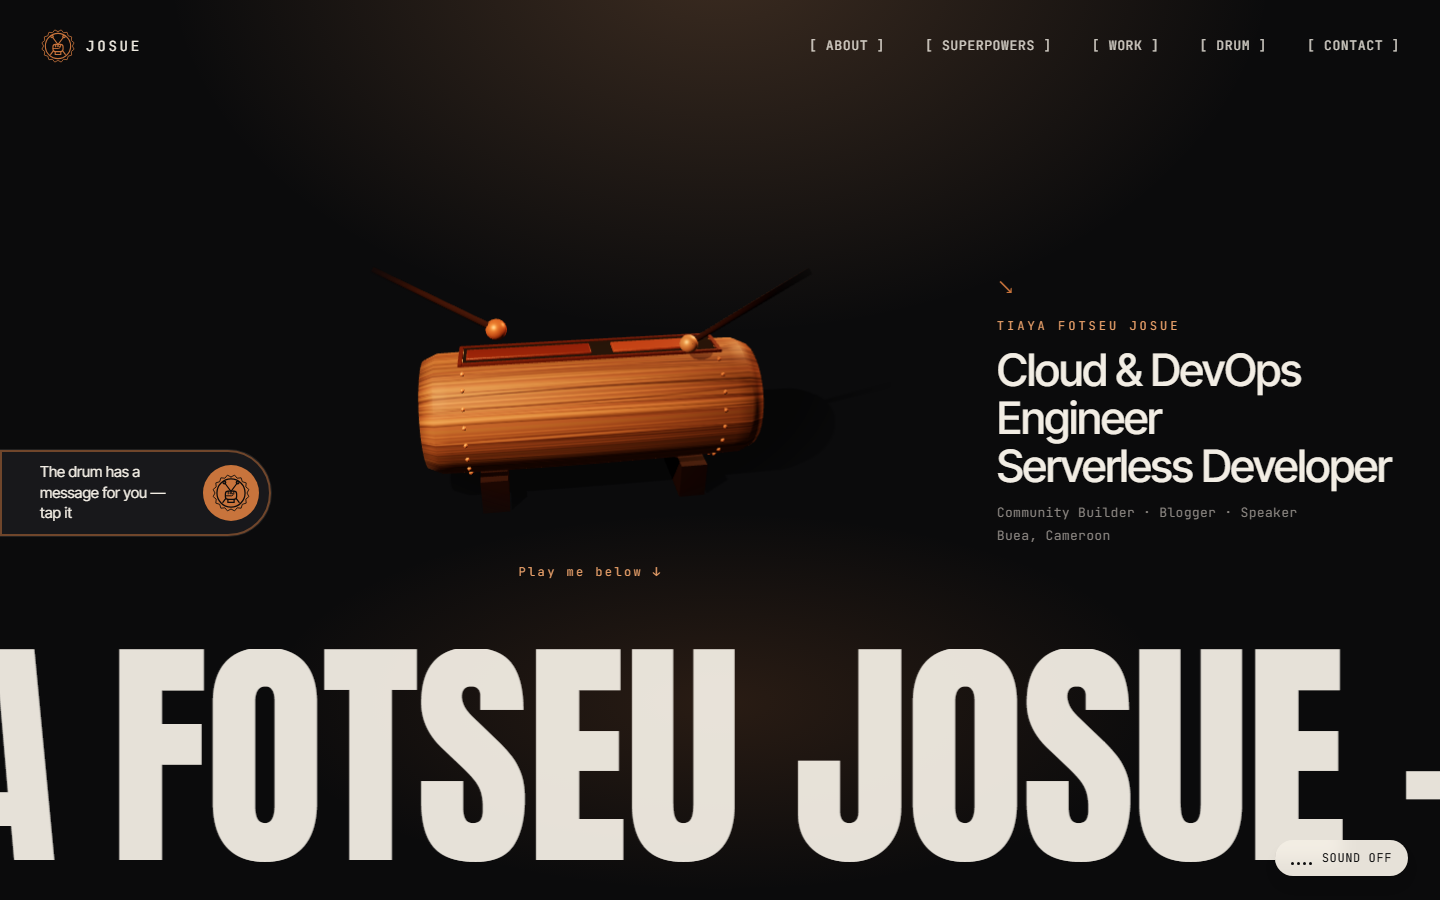
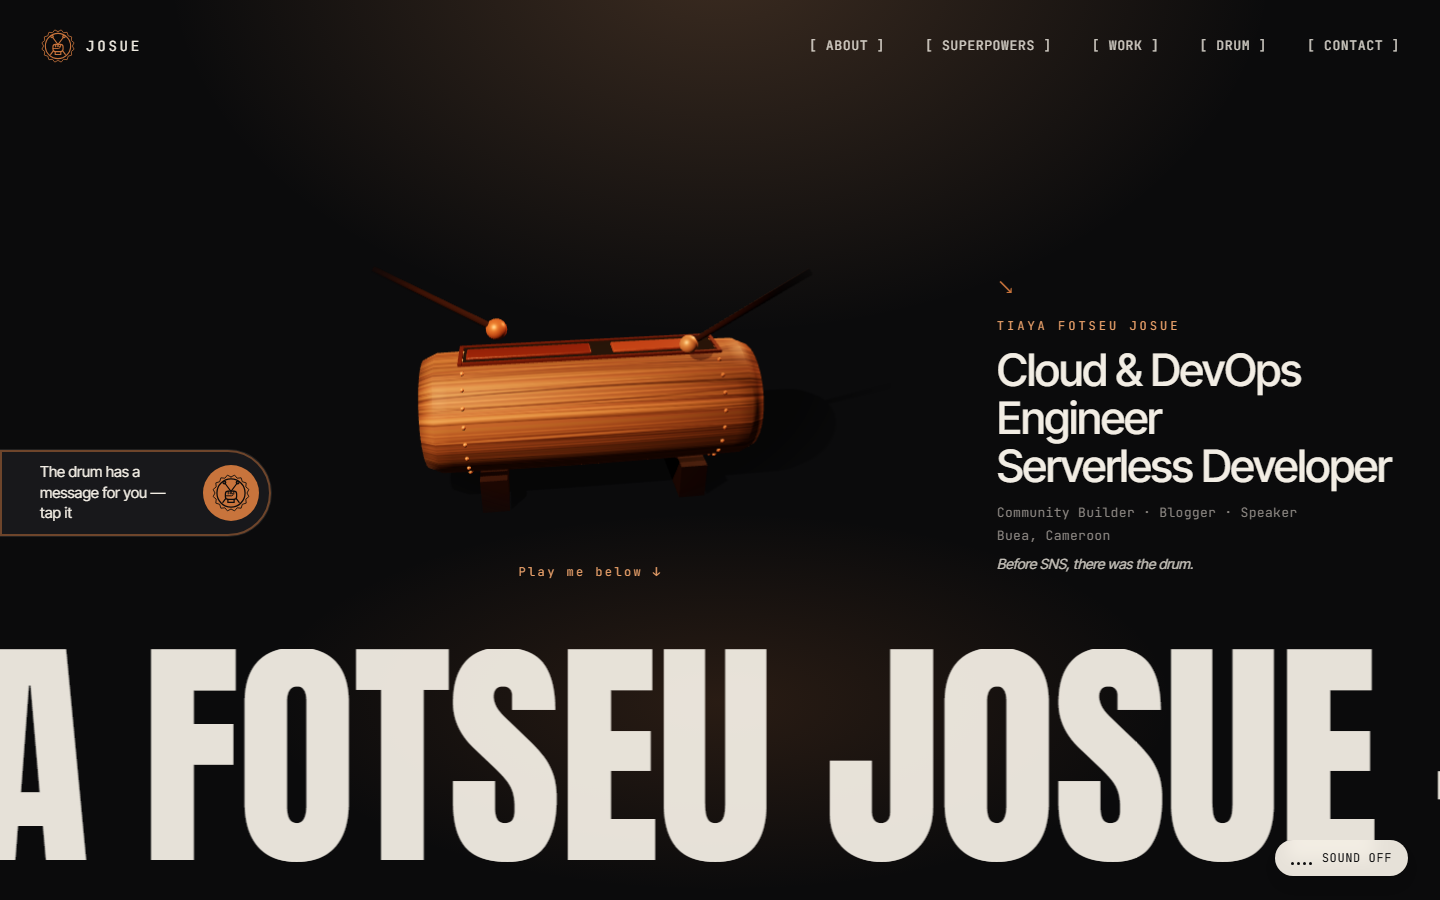
docs(submission): review + dry-run edits, fresh hero shots

Changed region(s): [[0.0, 0.7156, 1.0, 0.9644], [0.6875, 0.6222, 0.8438, 0.6533], [0.3125, 0.3733, 0.3438, 0.4044]]

diff --git a/web/e2e/capture.spec.ts b/web/e2e/capture.spec.ts
@@ -88,3 +88,17 @@ test('demo video + delivered screenshot', async ({ browser }) => {
   copyFileSync(await video.path(), VIDEO);
   expect(posts).toBeLessThanOrEqual(2);
 });
+
+// Re-shoot only the two hero frames (no phrase, no POST): -g "hero shots".
+test('hero shots', async ({ browser }) => {
+  for (const [name, opts] of [
+    ['01-hero-desktop', { viewport: { width: 1440, height: 900 } }],
+    ['10-mobile-hero', { viewport: { width: 390, height: 844 }, deviceScaleFactor: 2, isMobile: true, hasTouch: true }],
+  ] as const) {
+    const ctx = await browser.newContext(opts);
+    await noPosts(ctx);
+    const page = await ctx.newPage();
+    await page.goto('/'); await settle(page, 3500); await shot(page, name);
+    await ctx.close();
+  }
+});

diff --git a/docs/submission/project-post.md b/docs/submission/project-post.md
@@ -4,6 +4,12 @@
 **Try the creative feature:** https://main.d2edrxdeaouf1j.amplifyapp.com/#drum   ·   **Stage Mode:** https://main.d2edrxdeaouf1j.amplifyapp.com/?mode=stage
 **How it's built (on the site):** https://main.d2edrxdeaouf1j.amplifyapp.com/how-it-works/
 
+> **TL;DR.** A two-tone slit drum sits in the middle of my portfolio.
+>
+> Play four beats and a real AWS pipeline (Amazon API Gateway → AWS Lambda → Amazon DynamoDB + Amazon SNS → Amazon SQS and email) delivers the rhythm, and the drum answers with a message about me.
+>
+> Try it: https://main.d2edrxdeaouf1j.amplifyapp.com/#drum
+
 I'm Tiaya Fotseu Josue, a Cloud & DevOps Engineer and Serverless Developer from Buea, Cameroon. I'm a 4th-year B.Eng Computer Engineering student at the University of Buea. I have played the drums since Lower Sixth. This portfolio turns that drum into a real AWS messaging system.
 
 ![Demo: the hint, four drum hits, the message card with "Delivered via Amazon SNS", then Stage Mode](https://raw.githubusercontent.com/Joshua4-0p/joshua.cloud-portfolio-website/main/docs/submission/demo.gif)
@@ -17,7 +23,7 @@ I'm Tiaya Fotseu Josue, a Cloud & DevOps Engineer and Serverless Developer from 
 | **D2** Three core sections: About Me, Skills / Tech Superpowers, Projects or Achievements | Nav links and anchors: [About](https://main.d2edrxdeaouf1j.amplifyapp.com/#about), [Superpowers](https://main.d2edrxdeaouf1j.amplifyapp.com/#superpowers), [Work](https://main.d2edrxdeaouf1j.amplifyapp.com/#work), plus Recognition and Community. Screenshots 02–06. All sections are static HTML and readable without JavaScript. |
 | **D3** One creative feature that does not get in the way of navigation | **The Talking Drum** ([/#drum](https://main.d2edrxdeaouf1j.amplifyapp.com/#drum)). Visible hint in the hero: "The drum has a message for you — tap it". Opt-in, no splash screen, no forced sound, nav always works, Stage Mode exits with one button or Escape. Works with mouse, touch and keyboard. Screenshots 07–09, 11 and the demo GIF. |
 | **D4** Link to the GitHub repository | https://github.com/Joshua4-0p/joshua.cloud-portfolio-website (public), linked in the site footer and on /how-it-works/. |
-| **D5** Screenshots of the portfolio and the AWS setup, AWS services documented, learnings and challenges | 12 portfolio screenshots, the architecture diagram, a demo GIF, and AWS console screenshots (Amplify, API Gateway, Lambda, DynamoDB, SNS, SQS, CloudWatch Synthetics, Budgets) below, each with a caption. Services table with purpose and monthly cost under "Working AWS implementation". "What I learned" and "Challenges I hit" below. |
+| **D5** Screenshots of the portfolio and the AWS setup, AWS services documented, learnings and challenges | 12 portfolio screenshots, the architecture diagram, a demo GIF, and AWS console screenshots (see "AWS console screenshots" below), each with a caption. Services table with purpose and monthly cost under "Working AWS implementation". "What I learned" and "Challenges I hit" below. |
 | **D6** Original, unpublished website | New repo created on 6 Nov 2026 at 06:24 UTC. New Amplify app, first deployed on 6 Nov 2026. See the originality statement under "Communication quality". |
 
 ## Creativity and memorability
@@ -26,7 +32,7 @@ I'm Tiaya Fotseu Josue, a Cloud & DevOps Engineer and Serverless Developer from 
 
 You play four beats: low ● and high ○. The drum answers with one of eight short messages about me. They are true things from my life: I drew cartoons and manga before I wrote code. My first code was C in Level 200. I grew up bilingual. There are eight to find.
 
-**Why it reflects me.** I am a drummer. I build serverless and messaging systems on AWS. A talking drum was a publish/subscribe system long before the cloud: one drummer sends a rhythm, and every village in earshot receives it. So the punchline on the first card is: *Before SNS, there was the drum. Drummer = publisher, rhythm = message, villages = subscribers.*
+**Why it reflects me.** I am a drummer. I started in Lower Sixth, and guitar came later, in Level 300 at the University of Buea. The first message the drum gives you is mine: "I started drumming in Lower Sixth. Years later I'm still sending messages, now they travel through the cloud." I build serverless and messaging systems on AWS. A talking drum was a publish/subscribe system long before the cloud: one drummer sends a rhythm, and every village in earshot receives it. So the punchline on the first card is: *Before SNS, there was the drum. Drummer = publisher, rhythm = message, villages = subscribers.*
 
 **And the drum really publishes.** Every completed four-beat phrase is sent to a real AWS backend:
 
@@ -52,7 +58,7 @@ The 3D drum shows this fan-out: a pulse travels to the archive, and the inbox li
 - If the API is down or blocked, the drum still answers instantly. Only the "Delivered" line is missing.
 
 ![Hero on desktop with the drum hint above the fold](https://raw.githubusercontent.com/Joshua4-0p/joshua.cloud-portfolio-website/main/docs/submission/screenshots/01-hero-desktop.png)
-*01 — Hero on desktop (1440×900). My name, titles, the 3D drum, and the hint "The drum has a message for you — tap it" above the fold.*
+*01 — Hero on desktop (1440×900). My name, titles, the tagline "Before SNS, there was the drum.", the 3D drum, and the hint "The drum has a message for you — tap it" above the fold.*
 
 ![The drum section with two pads and the 3D slit drum](https://raw.githubusercontent.com/Joshua4-0p/joshua.cloud-portfolio-website/main/docs/submission/screenshots/07-drum-section.png)
 *07 — The drum section. Two pads (low and high) and the 3D slit drum on a dark stage. The labels show the SNS topic and its two subscribers: my inbox (email) and the village archive (SQS).*
@@ -91,7 +97,7 @@ All backend infrastructure is code: **AWS CDK v2** (TypeScript) deploys one **AW
 
 ### Evidence from the stack (read-only)
 
-Resources in the CloudFormation stack `TalkingDrumStack` (us-east-1), summarised from the deployed CDK template. ARNs and the account ID are left out on purpose.
+Resources in the CloudFormation stack `TalkingDrumStack` (us-east-1), summarised from the synthesised CDK template (`cdk synth`); the counts match the deployed stack by construction. ARNs and the account ID are left out on purpose.
 
 | Resource type | Count | What it is |
 |---|---|---|
@@ -112,12 +118,12 @@ Resources in the CloudFormation stack `TalkingDrumStack` (us-east-1), summarised
 
 Live checks from my terminal on 7 Nov 2026:
 - `curl -I` on the live site returns `200`, served by CloudFront, with all six security headers: `Strict-Transport-Security`, `Content-Security-Policy`, `X-Frame-Options: DENY`, `X-Content-Type-Options: nosniff`, `Referrer-Policy`, `Permissions-Policy`.
-- `GET /drum` returns `{"count":16}`: 16 rhythms had crossed the cloud.
+- `GET /drum` returns a small counter (16 when I checked, 7 Nov 2026).
 - `POST /drum` with an invalid phrase returns `400`.
 
 ### Uptime monitoring and security
 
-- **Uptime:** the CloudWatch Synthetics canary runs every hour against the live URL. It fails if the page is not `200` or the hint text is missing. A failure alarms to my `ops-alerts` SNS topic. Lambda errors and API 5xx errors alarm too.
+- **Uptime:** the CloudWatch Synthetics canary runs every hour against the live URL. It fails if the page is not `200` or the hint text is missing. A failure alarms to my `ops-alerts` SNS topic. Lambda errors and API 5xx errors alarm too. The hourly canary and alarms stay on through the judging window.
 - **Security headers:** set in `customHttp.yml` at the repo root, which Amplify applies to every response. The Content-Security-Policy allows `connect-src` only to my API host.
 - **Abuse limits:** API Gateway throttling (POST 2 rps / burst 10), a strict input regex, at most one email a minute, and a $5 budget alert.
 - **No secrets** in the repo. No cookies, no trackers.
@@ -170,7 +176,7 @@ I built this with Claude Code as a coding agent, and I made the product, content
 
 ### Originality statement
 
-This portfolio is new and was built for this challenge. The GitHub repo was created on **6 Nov 2026 at 06:24 UTC**. The Amplify app is new, and its first deploy ran on **6 Nov 2026** (job #1 in the deploy history, screenshot AWS 01). No earlier portfolio site or code was reused. Design references were mood-board inspiration only. All text, artwork and photos are original or my own.
+This portfolio is new and was built for this challenge. The GitHub repo was created on **6 Nov 2026 at 06:24 UTC**. The Amplify app is new, and its first deploy ran on **6 Nov 2026**. No earlier portfolio site or code was reused. Design references were mood-board inspiration only. All text, artwork and photos are original or my own.
 
 ## What I learned
 
@@ -204,7 +210,7 @@ This portfolio is new and was built for this challenge. The GitHub repo was crea
 *06 — Recognition: AWS Certified Cloud Practitioner, 3rd place at Dev War, Huawei badges and a bootcamp. Community, talks and writing follow below it on the page.*
 
 ![Hero on a phone](https://raw.githubusercontent.com/Joshua4-0p/joshua.cloud-portfolio-website/main/docs/submission/screenshots/10-mobile-hero.png)
-*10 — Hero on a phone (390×844). The drum hint is above the fold.*
+*10 — Hero on a phone (390×844). Name, titles, the tagline, and the drum hint, all above the fold.*
 
 ![Drum on a phone](https://raw.githubusercontent.com/Joshua4-0p/joshua.cloud-portfolio-website/main/docs/submission/screenshots/11-mobile-drum.png)
 *11 — The drum on a phone (`/#drum`). Both pads fit on screen as large tap targets, with the live "rhythms have crossed the cloud" counter from DynamoDB.*
@@ -213,6 +219,8 @@ This portfolio is new and was built for this challenge. The GitHub repo was crea
 *12 — The /how-it-works/ page explains the architecture on the site itself, with the same diagram.*
 
 **Accessibility:** WCAG 2.2 AA is the target. Automated axe checks run in the end-to-end tests on the home page, /how-it-works/ and Stage Mode, at desktop and phone widths. The drum is fully playable by keyboard, every message is announced through an `aria-live` region, and "Read the messages" gives a text list of all of them. Sound is never needed to understand anything. `prefers-reduced-motion` turns off smooth scrolling, reveals, pulses and 3D animation.
+
+Accessibility, best practices and SEO all score 100 on mobile. Performance is 56, and challenge 3 above explains why.
 
 **Scores (mobile, Lighthouse, live URL, median of 3 runs, 6–7 Nov 2026):**
 
@@ -245,8 +253,9 @@ Thanks for reading, and play the drum: https://main.d2edrxdeaouf1j.amplifyapp.co
    - `aws-07-sqs.png` — SQS → `village-archive` → Send and receive messages → Poll for messages → open one message body.
    - `aws-08-canary.png` — CloudWatch → Synthetics → `drum-site-heartbeat` → passing runs.
    - `aws-09-budgets.png` — Billing → Budgets → `talking-drum-monthly`.
-   - Minimum is 4 (D5). If short on time, take 01, 03, 06 and 08, and delete the image lines for the ones you skip.
-3. **Redaction rule (every console shot):** blur or crop the **12-digit account ID** (top-right account menu, and inside any ARN), **every ARN**, and **every email address except josuefotseu02@gmail.com** (the ops-alerts and budget emails must be hidden). No phone numbers, IDs or addresses anywhere.
+   - Minimum is 4 (D5). If short on time, take 01, 03, 06 and 08, and delete the image lines for the ones you skip. After inserting shots, make sure the D5 row and the section only mention services you actually screenshotted.
+   - For `aws-06-sns.png`: check that the email subscription shows "Confirmed" before you shoot it.
+3. **Redaction rule (every console shot):** blur or crop the **12-digit account ID** (top-right account menu, and inside any ARN), **every ARN**, and **every email address except josuefotseu02@gmail.com** (the ops-alerts and budget emails must be hidden). SQS queue URLs and Lambda/SNS ARNs contain the account ID: blur them, and crop the browser tab title and URL bar too. No phone numbers, IDs or addresses anywhere.
 4. **Optional:** after `aws login`, run `aws amplify list-jobs --app-id d2edrxdeaouf1j --branch-name main --region us-east-1` and add job #1's exact start time to the originality statement.
 5. **Confirm** your Builder Center profile is student-verified.
 6. **Publish** under **"Your project"** on the AWS Student Builder Challenge page. Title: `🥁 Joshua.Cloud — Before SNS, there was the drum`. Paste everything above the `---` line. Keep the `#student-builders` tag.

diff --git a/README.md b/README.md
@@ -41,6 +41,8 @@ Submission write-up: [docs/submission/project-post.md](docs/submission/project-p
 
 ![The drum after one phrase: message card with "Delivered via Amazon SNS"](docs/submission/screenshots/08-message-delivered.png)
 
+*After one phrase: "Delivered via Amazon SNS".*
+
 ## Stack
 
 Next.js (App Router, `output: 'export'`) · TypeScript · Tailwind CSS v4 · GSAP + Lenis · Web Audio API · Vitest · Playwright + axe · AWS CDK v2.
